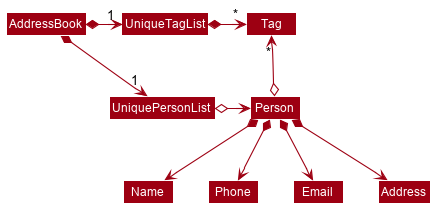
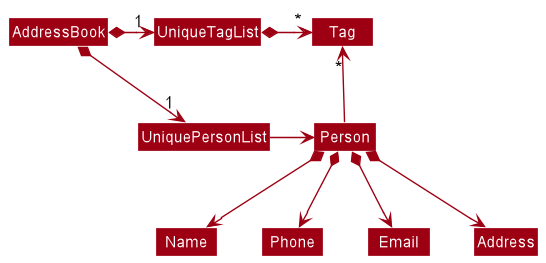
DG: Tweak the 'Model component' section
Main changes:
* Tweak the layouts of the diagrams.
* Tweak explanations slightly.

Changed region(s): [[0.0, 0.0282, 0.7977, 0.9859], [0.7682, 0.7042, 1.0, 0.9859], [0.1773, 0.2254, 0.2364, 0.3099]]

diff --git a/docs/DeveloperGuide.md b/docs/DeveloperGuide.md
@@ -113,18 +113,22 @@ How the parsing works:
 * When called upon to parse a user command, the `AddressBookParser` class creates an `XYZCommandParser` (`XYZ` is a placeholder for the specific command name e.g., `AddCommandParser`) which uses the other classes shown above to parse the user command and create a `XYZCommand` object (e.g., `AddCommand`) which the `AddressBookParser` returns back as a `Command` object.
 * All `XYZCommandParser` classes (e.g., `AddCommandParser`, `DeleteCommandParser`, ...) inherit from the `Parser` interface so that they can be treated similarly where possible e.g, during testing.
 
+### Model component
 **API** : [`Model.java`](https://github.com/se-edu/addressbook-level3/tree/master/src/main/java/seedu/address/model/Model.java)
 
-The `Model`,
-
-* stores a `UserPref` object that represents the user’s preferences.
-* stores the address book data.
-* exposes an unmodifiable `ObservableList<Person>` that can be 'observed' e.g. the UI can be bound to this list so that the UI automatically updates when the data in the list change.
-* does not depend on any of the other three components.
+<img src="images/ModelClassDiagram.png" width="450" />
 
 
-<div markdown="span" class="alert alert-info">:information_source: **Note:** An alternative (arguably, a more OOP) model is given below. It has a `Tag` list in the `AddressBook`, which `Person` references. This allows `AddressBook` to only require one `Tag` object per unique `Tag`, instead of each `Person` needing their own `Tag` object.<br>
-![BetterModelClassDiagram](images/BetterModelClassDiagram.png)
+The `Model` component,
+
+* stores the address book data i.e., all `Person` objects (which are contained in a `UniquePersonList` object).
+* stores the currently 'selected' `Person` objects (e.g., results of a search query) as a separate _filtered_ list which is exposed to outsiders as an unmodifiable `ObservableList<Person>` that can be 'observed' e.g. the UI can be bound to this list so that the UI automatically updates when the data in the list change.
+* stores a `UserPref` object that represents the user’s preferences. This is exposed to the outside as a `ReadOnlyUserPref` objects.
+* does not depend on any of the other three components (as the `Model` represents data entities of the domain, they should make sense on their own without depending on other components)
+
+<div markdown="span" class="alert alert-info">:information_source: **Note:** An alternative (arguably, a more OOP) model is given below. It has a `Tag` list in the `AddressBook`, which `Person` references. This allows `AddressBook` to only require one `Tag` object per unique tag, instead of each `Person` needing their own `Tag` objects.<br>
+
+<img src="images/BetterModelClassDiagram.png" width="450" />
 
 </div>
 
